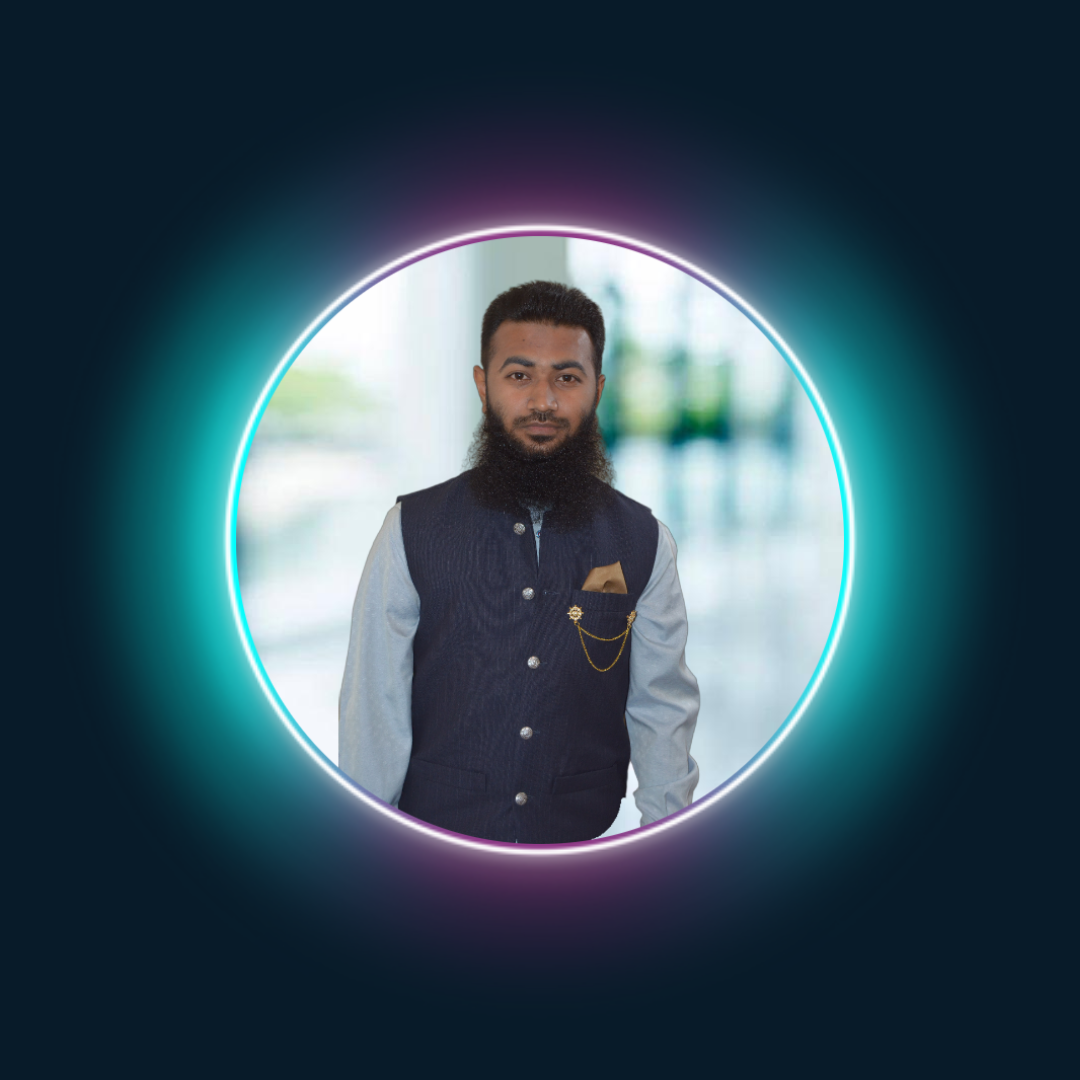
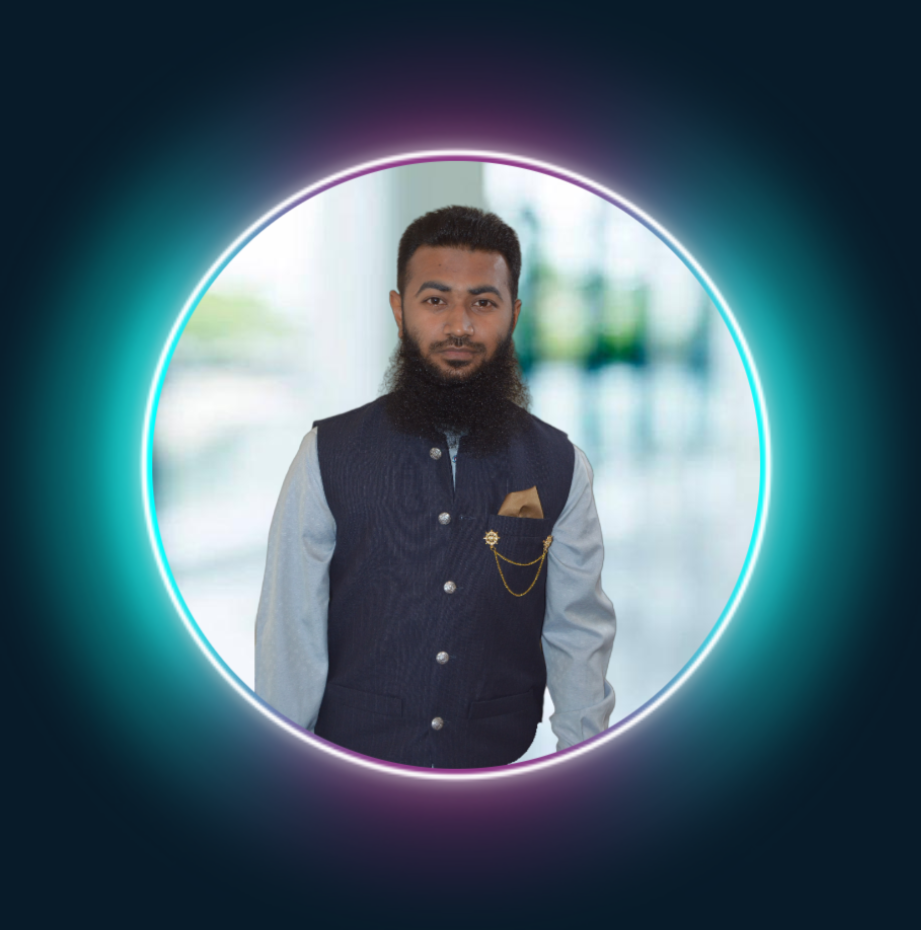
portfolio-complete

diff --git a/index.html b/index.html
@@ -54,7 +54,7 @@
             <a href="https://github.com/AsadUllahBuild" class="btn-box">More About Me</a>
         </div>
         <div class="home-image">
-            <img width="550px" src="./assets/Untitled design (1).png" alt="my picture">
+            <img width="550px" src="./assets/Untitled design.png" alt="my-picture">
         </div>
         <span class="home-imgHover"></span>
 
@@ -203,15 +203,28 @@
 
         </div>
     </section>
-    
+
     <section>
         <div id="portfolio" id="project">
             <div class="main-text" id="project">
-                <h2>Latest<span>Project</span></h2>
+                <h2>Latest <span>Project</span></h2>
 
                 <div class="portfolio-content">
                     <div class="row">
-                        <img src="./assets/todo (21).png">
+                        <img src="./assets/blogging app banner.jpg">
+                        <div class="layer">
+                            <h5>My Blogging App</h5>
+                            <p>This blogging application is powered by Firebase, encompassing a comprehensive array of
+                                functionalities. It offers a user-friendly dashboard for seamless blog management, a
+                                versatile profile section enabling password updates, and an engaging interface for
+                                browsing all blogs. Leveraging Firebase's capabilities, it ensures real-time updates,
+                                robust authentication, and efficient hosting.</p>
+                            <a href="https://smit-mini-hackathon-c17b7.web.app/" target="_blank"><i class='bx bx-link-external'
+                                    style="color: #ff004f;"></i></a>
+                        </div>
+                    </div>
+                    <div class="row">
+                        <img src="./assets/todo-app.png">
                         <div class="layer">
                             <h5>Todo App on Firebase</h5>
                             <p>This application is built using Firebase, offering a robust suite of features including
@@ -230,16 +243,6 @@
                                     class='bx bx-link-external' style="color: #ff004f;"></i></a>
                         </div>
                     </div>
-                    <div class="row">
-                        <img src="./assets/weather app(23).png">
-                        <div class="layer">
-                            <h5>Weather App</h5>
-                            <p>This weather application is built using JavaScript, offering users a seamless way to
-                                access weather forecasts and information.</p>
-                            <a href="https://asadullahbuild.github.io/weather-app/" target="_blank"><i
-                                    class='bx bx-link-external' style="color: #ff004f;"></i></a>
-                        </div>
-                    </div>
                 </div>
                 <div class="portfolio-content">
                     <div class="row">
@@ -252,6 +255,28 @@
                                     class='bx bx-link-external' style="color: #ff004f;"></i></a>
                         </div>
                     </div>
+                    <div class="row">
+                        <img src="./assets/weather app(23).png">
+                        <div class="layer">
+                            <h5>Weather App</h5>
+                            <p>This weather application is built using JavaScript, offering users a seamless way to
+                                access weather forecasts and information.</p>
+                            <a href="https://asadullahbuild.github.io/weather-app/" target="_blank"><i
+                                    class='bx bx-link-external' style="color: #ff004f;"></i></a>
+                        </div>
+                    </div>
+                    <div class="row">
+                        <img src="./assets/priceoye (24).png">
+                        <div class="layer">
+                            <h5>Mobile App</h5>
+                            <p>This PriceOye app prototype showcases a UI design emphasizing product browsing and cart
+                                management, enhanced with JavaScript functionality.</p>
+                            <a href="https://asadullahbuild.github.io/Phone-App/" target="_blank"><i
+                                    class='bx bx-link-external' style="color: #ff004f;"></i></a>
+                        </div>
+                    </div>
+                </div>
+                <div class="portfolio-content">
                     <div class="row">
                         <img src="./assets/download.png">
                         <div class="layer">
@@ -272,28 +297,6 @@
                                     class='bx bx-link-external' style="color: #ff004f;"></i></a>
                         </div>
                     </div>
-                </div>
-                <div class="portfolio-content">
-                    <div class="row">
-                        <img src="./assets/color change (25).png">
-                        <div class="layer">
-                            <h5>Color Change App</h5>
-                            <p>This interactive app, developed using JavaScript, offers users a dynamic platform to
-                                explore color variations in real-time.</p>
-                            <a href="https://asadullahbuild.github.io/color-changer-app/" target="_blank"><i
-                                    class='bx bx-link-external' style="color: #ff004f;"></i></a>
-                        </div>
-                    </div>
-                    <div class="row">
-                        <img src="./assets/priceoye (24).png">
-                        <div class="layer">
-                            <h5>Mobile App</h5>
-                            <p>This PriceOye app prototype showcases a UI design emphasizing product browsing and cart
-                                management, enhanced with JavaScript functionality.</p>
-                            <a href="https://asadullahbuild.github.io/Phone-App/" target="_blank"><i
-                                    class='bx bx-link-external' style="color: #ff004f;"></i></a>
-                        </div>
-                    </div>
                     <div class="row">
                         <img src="./assets/analog.png">
                         <div class="layer">
@@ -308,6 +311,7 @@
             </div>
         </div>
     </section>
+
 
     <section class="contact" id="contact">
         <div class="contact-text">

diff --git a/style.css b/style.css
@@ -86,6 +86,9 @@ body {
     .nav-links a:hover {
         background-color: #0ef;
     }
+    .navbar {
+        margin-right: 40px;
+    }
 
     .hamburger-menu {
         display: block;
@@ -220,14 +223,15 @@ body {
 /* Media Query for Max Width 768px */
 @media screen and (max-width: 768px) {
     .home {
-        padding: 50px 5% 0;
+        padding: 10px 5% 0;
         flex-direction:column-reverse;
         align-items: center;
+        margin-top: 0px;
     }
 
     .home-image {
-        width: 70%;
-        margin-bottom: 20px;
+        width: 80%;
+        margin-bottom: 0px;
     }
 
     .home-image img {
@@ -477,6 +481,16 @@ body {
     .services-list div a {
         font-size: 12px; /* Adjust as needed */
         margin-top: 15px; /* Adjust as needed */
+    }
+    .sub-title {
+        text-align: center;
+        font-size: 50px;
+        padding-bottom: 30px;
+        margin-top: 100px;
+    }
+    
+    .sub-title span {
+        color: #0ef;
     }
 }
 @media screen and (max-width: 430px) {
@@ -773,8 +787,19 @@ body {
     .container1 {
         width: 100%; /* Or adjust the width according to your layout needs */
         margin-left: 0;
-        padding: 80px; /* Or modify the padding */
+        padding: 80px;
+         /* Or modify the padding */
         /* Additional styles... */
+    }
+    .sub-title {
+        text-align: center;
+        font-size: 50px;
+        padding-bottom: 30px;
+        margin-top: 100px;
+    }
+    
+    .sub-title span {
+        color: #0ef;
     }
 
 }
@@ -827,10 +852,9 @@ body {
 }
 
 .row img {
-    height: 400px;
+    height: 300px;
     display: block;
     transition: transform 0.5s;
-    object-fit: cover;
     border-radius: 8px;
     margin-right: 10px;
     width: 500px;
@@ -915,6 +939,21 @@ body {
     .layer {
         padding: 20px; /* Adjust padding */
     }
+    .main-text {
+        padding-top: 30px;
+        margin-top: 150px;
+        align-items: center;
+    }
+    
+    .main-text h2 {
+        font-size: 50px;
+        line-height: 1;
+        text-align: center;
+    }
+    
+    .main-text h2 span {
+        color: #0ef;
+    }
 }
 
 
@@ -927,6 +966,21 @@ body {
         width: 100%; /* Adjust image width */
         height:250px; /* Maintain aspect ratio */
         border-radius: 8px;
+    }
+    .main-text {
+        margin-top: 80px;
+        align-items: center;
+        margin-bottom: 10px;
+    }
+    
+    .main-text h2 {
+        font-size: 40px;
+        line-height: 1;
+        text-align: center;
+    }
+    
+    .main-text h2 span {
+        color: #0ef;
     }
 }
 
@@ -1057,6 +1111,34 @@ form textarea {
         0 0 100px cyan, 0 0 200px cyan;
 }
 
+@media screen and (max-width: 768px) {
+    .contact {
+        grid-template-columns: 1fr;
+        padding-left: 0;
+        text-align: center;
+    }
+
+    .contact-text h2 {
+        font-size: 60px;
+    }
+
+    .contact-text h4 {
+        font-size: 18px;
+    }
+
+    .contact-text p {
+        font-size: 16px;
+        line-height: 26px;
+        margin-left: 60px;
+        margin-right: 60px;
+    }
+    .contact-list {
+        margin-bottom: 1rem;
+    }
+
+    /* Adjust other styles as needed for smaller screens */
+}
+
 .last-text p {
     width: 100%;
     text-align: center;
@@ -1079,7 +1161,25 @@ form textarea {
     padding: 10px;
     border-radius: 0.5rem;
 }
+@media screen and (max-width: 768px) {
+    .last-text p {
+        padding: 15px 0;
+        margin-top: 40px;
+    }
 
+    .top {
+        bottom: 1rem;
+        right: 1rem;
+    }
+
+    .top i {
+        font-size: 28px;
+        padding: 8px;
+        margin-right: 10px;
+
+    }
+    /* Adjust other styles as needed for smaller screens */
+}
 
 
 

diff --git a/app.js b/app.js
@@ -9,7 +9,27 @@ var typed = new Typed(".text", {
 
 document.querySelector('.hamburger-menu').addEventListener('click', function() {
     this.classList.toggle('change');
-    document.querySelector('.nav-links').classList.toggle('show');
+    const navLinks = document.querySelector('.nav-links');
+    navLinks.classList.toggle('show');
+
+    const homeSection = document.querySelector('#home');
+
+    // If nav-links is open
+    if (navLinks.classList.contains('show')) {
+        // Calculate the height of the nav-links element
+        const navLinksHeight = navLinks.getBoundingClientRect().height;
+
+        // Get the top position of the home section
+        const homeSectionTop = homeSection.offsetTop;
+
+        // Scroll to the top of the home section adjusted by the nav-links height
+        window.scrollTo({ top: homeSectionTop - navLinksHeight, behavior: 'smooth' });
+    } else {
+        // Scroll back to the top when nav-links is closed
+        window.scrollTo({ top: 0, behavior: 'smooth' });
+    }
 });
+
+
 
 
